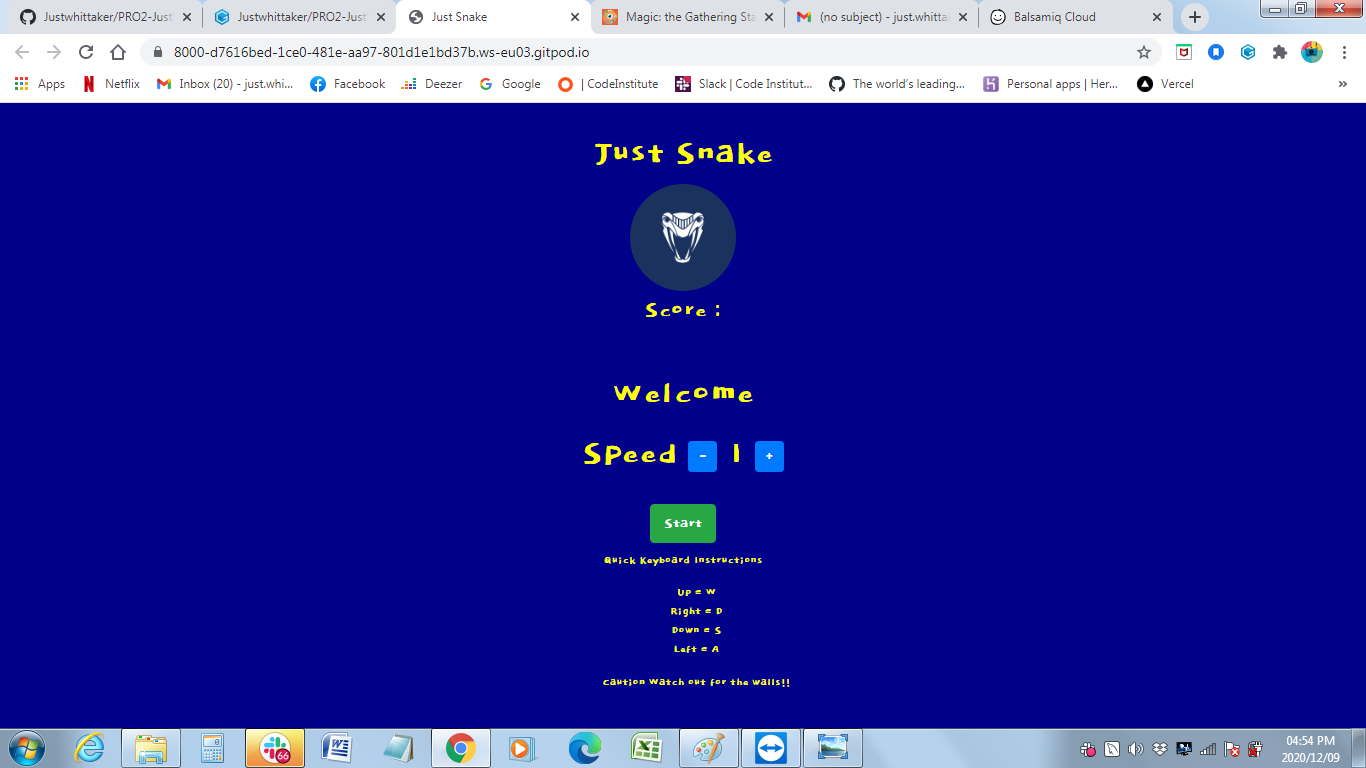
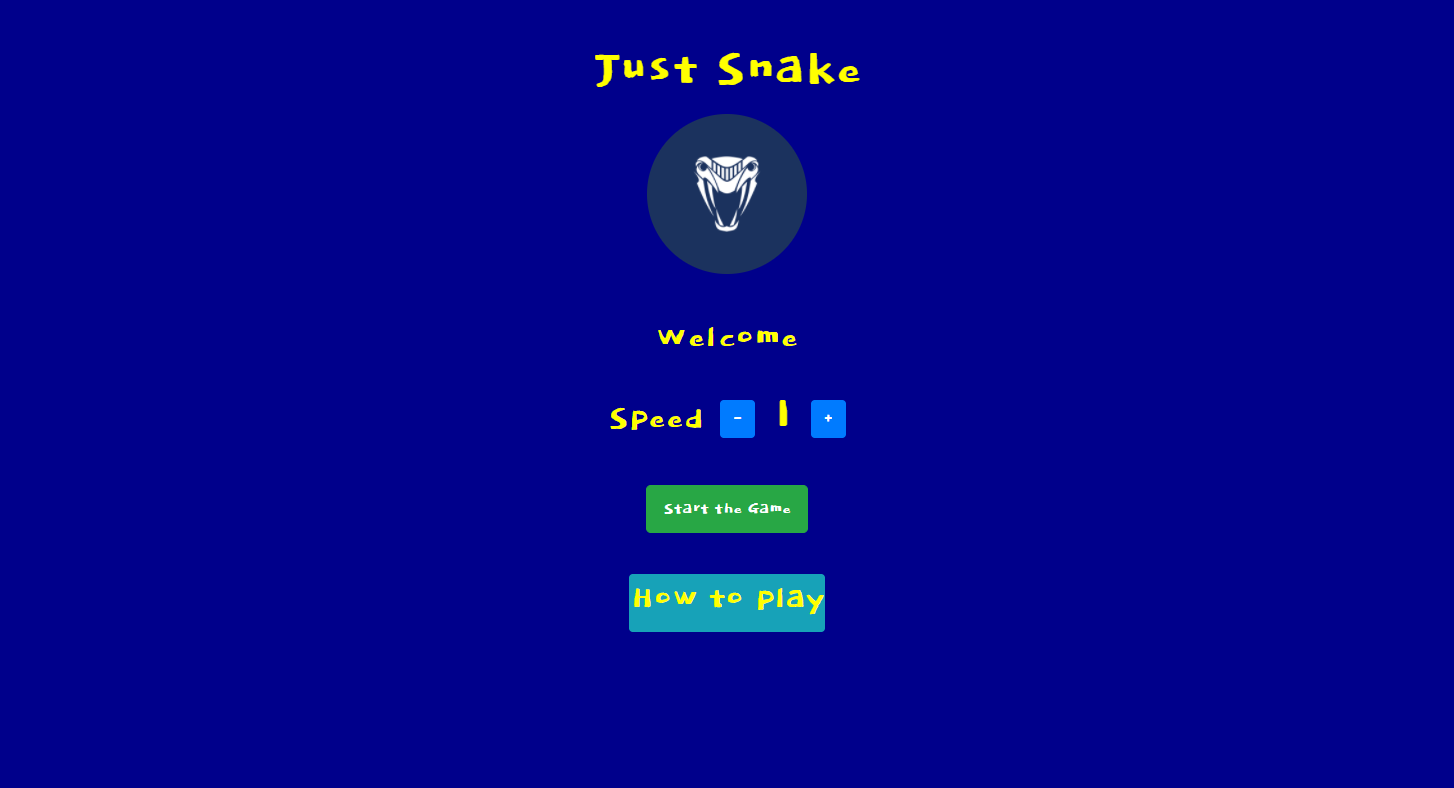
fix(JustSnake):fix modal render

diff --git a/index.html b/index.html
@@ -15,29 +15,20 @@
 
 <body>
 	<h1 class="title">Just Snake</h1>
-	    <div class="logo"></div>
+	    <div id='logo-panel' class="logo"></div>
 	        <div id="score-panel" class="points">
 		        <label>Score :</label>
 		        <span id="score"></span>
 	    </div>
     
         <div id="start-panel" class="title">
-            <h1>Welcome</h1>
+            <h1 id="titleHeader"></h1>
                 <label><h1>Speed</h1></label>
                     <button type="button" class="btn btn-primary" id="minus">-</button>
                     <span id="speed"></span>
                     <button type="button" class="btn btn-primary" id="plus">+</button><br>
-                    <button type="button" class="btn btn-success btn-lg" onclick="startGame()">Start</button>
-        </div>
-
-        <div id="end-panel" class="endTitle">
-            <h1>Game Over</h1>
-            <h2>TRY AGAIN</h2>
-                <label class="title"><h1>Speed</h1></label>
-                <button type="button" class="btn btn-primary" id="minus">-</button>
-                    <span id="speed"></span>
-                <button type="button" class="btn btn-primary" id="plus">+</button><br>
-                <button type="button" class="btn btn-danger btn-lg" onclick="startGame()">ReStart</button>
+                    <button type="button" class="btn btn-success btn-lg" onclick="startGame()"><h1>Start the Game</h1></button>
+                    <button type="button" id="myBtn" class="btn btn-info"><h1>How to play</h1></button>
         </div>
 
 	<canvas class="wrap" id="game-panel" width="320" height="320" tabindex="1"></canvas>
@@ -56,35 +47,21 @@
 		    <button  class="btn btn-warning btn-lg" onclick="goSouth()">⇓</button>
 	    </div>
         </div>
-            &nbsp;
 
-    <!-- Trigger the modal with a button -->
-        <button type="button" class="btn btn-success btn-lg instructionTitle" data-toggle="modal" data-target="#myModal">
-            <h1>How to play</h1></button>
-        <div id="modal" class="modal fade" role="dialog">
-  
-    <!-- Modal -->
-        <div class="modal-dialog">
+<!-- The Modal -->
+<div id="myModal" class="modal">
 
-    <!-- Modal content-->
-        <div class="modal-content">
-            <div class="modal-header">
-                <button type="button" class="close" data-dismiss="modal">&times;</button>
-                <h4 class="modal-title">How to play</h4>
-            </div>
-        <div class="modal-body">
-                <p>Move the snake to eat as many apples as you can<br>
+  <!-- Modal content -->
+  <div class="modal-content">
+    <span class="close"></span>
+    <p>Move the snake to eat as many apples as you can<br>
                     Grow your snake when you eat apples</p>
 		        <ul>Quick Keyboard Instructions
 			        <br>Up = W <br> Right = D <br> Down = S <br> Left = A</ul>
-			        <ul>Caution Watch out for the walls and dont step on your own tail  !!</ul>
-		        </p>
-        </div>
-        <div class="modal-footer">
-            <button type="button" class="btn btn-default" data-dismiss="modal">Close</button>
-        </div>
-        </div>
+			        <ul>Caution Watch out for the walls and dont step on your own tail  !!</ul></p>
+  </div>
 
+</div>
     </div>
     </div>
 </div>
@@ -97,3 +74,4 @@
 </body>
 
 </html>
+

diff --git a/assets/js/game.js b/assets/js/game.js
@@ -5,6 +5,7 @@ var ctx;
 var snake;
 var loopIntervalId;
 
+
 var score = 0;
 var speed = 1;
 
@@ -212,29 +213,32 @@ function drawFood() {
 
 // mainMenu, endMenu hide and show start-panel
 function mainMenu() {
+    $('#logo-panel').show();
     $('#game-panel').hide();
     $('#button-panel').hide();
     $('#start-panel').show();
     $('#speed').html(speed);
+    $('#titleHeader').html('Welcome');
     $('#score-panel').hide();
-    $('#end-panel').hide();
+    
 }
 
 function startGame() {
+    $('#logo-panel').hide();
     $('#game-panel').show();
     $('#button-panel').show();
     $('#start-panel').hide();
     $('#score-panel').show();
-    $('#end-panel').hide();
     start();
 }
 
 function endMenu() {
+    $('#logo-panel').show();
     $('#game-panel').hide();
     $('#button-panel').hide();
-    $('#end-panel').show();
-    $('#start-panel').hide();
+    $('#start-panel').show();
     $('#speed').html(speed);
+    $('#titleHeader').html('Game Over').css('color', 'red');
     $('#score-panel').show();
 }
 
@@ -263,5 +267,31 @@ $('#minus').click(function () {
 $('#plus').click(function () {
     speedUp()
 });
+
+// Get the modal
+var modal = document.getElementById("myModal");
+
+// Get the button that opens the modal
+var btn = document.getElementById("myBtn");
+
+// Get the <span> element that closes the modal
+var span = document.getElementsByClassName("close")[0];
+
+// When the user clicks on the button, open the modal
+btn.onclick = function() {
+  modal.style.display = "block";
+}
+
+// When the user clicks on <span> (x), close the modal
+span.onclick = function() {
+  modal.style.display = "none";
+}
+
+// When the user clicks anywhere outside of the modal, close it
+window.onclick = function(event) {
+  if (event.target == modal) {
+    modal.style.display = "none";
+  }
+}
 
 $(document).ready(mainMenu);

diff --git a/assets/css/style.css b/assets/css/style.css
@@ -61,7 +61,7 @@ body {
 
 .instructionTitle {    
     font: bold;
-    color: darkblue;
+    color: yellow;
     padding: 50px;
     margin: 20px;
     height: 100%;
@@ -82,4 +82,42 @@ body {
     padding: 0;
     font-size: 20px;
     font-family: "Dokdo", Arial, Helvetica, sans-serif;
+}
+
+/* The Modal (background) */
+.modal {
+  display: none; /* Hidden by default */
+  position: fixed; /* Stay in place */
+  z-index: 1; /* Sit on top */
+  left: 0;
+  top: 0;
+  width: 100%; /* Full width */
+  height: 100%; /* Full height */
+  overflow: auto; /* Enable scroll if needed */
+  background-color: rgb(0,0,0); /* Fallback color */
+  background-color: rgba(0,0,0,0.4); /* Black w/ opacity */
+}
+
+/* Modal Content/Box */
+.modal-content {
+  background-color: #fefefe;
+  margin: 15% auto; /* 15% from the top and centered */
+  padding: 20px;
+  border: 1px solid #888;
+  width: 80%; /* Could be more or less, depending on screen size */
+}
+
+/* The Close Button */
+.close {
+  color: #aaa;
+  float: right;
+  font-size: 28px;
+  font-weight: bold;
+}
+
+.close:hover,
+.close:focus {
+  color: black;
+  text-decoration: none;
+  cursor: pointer;
 }
